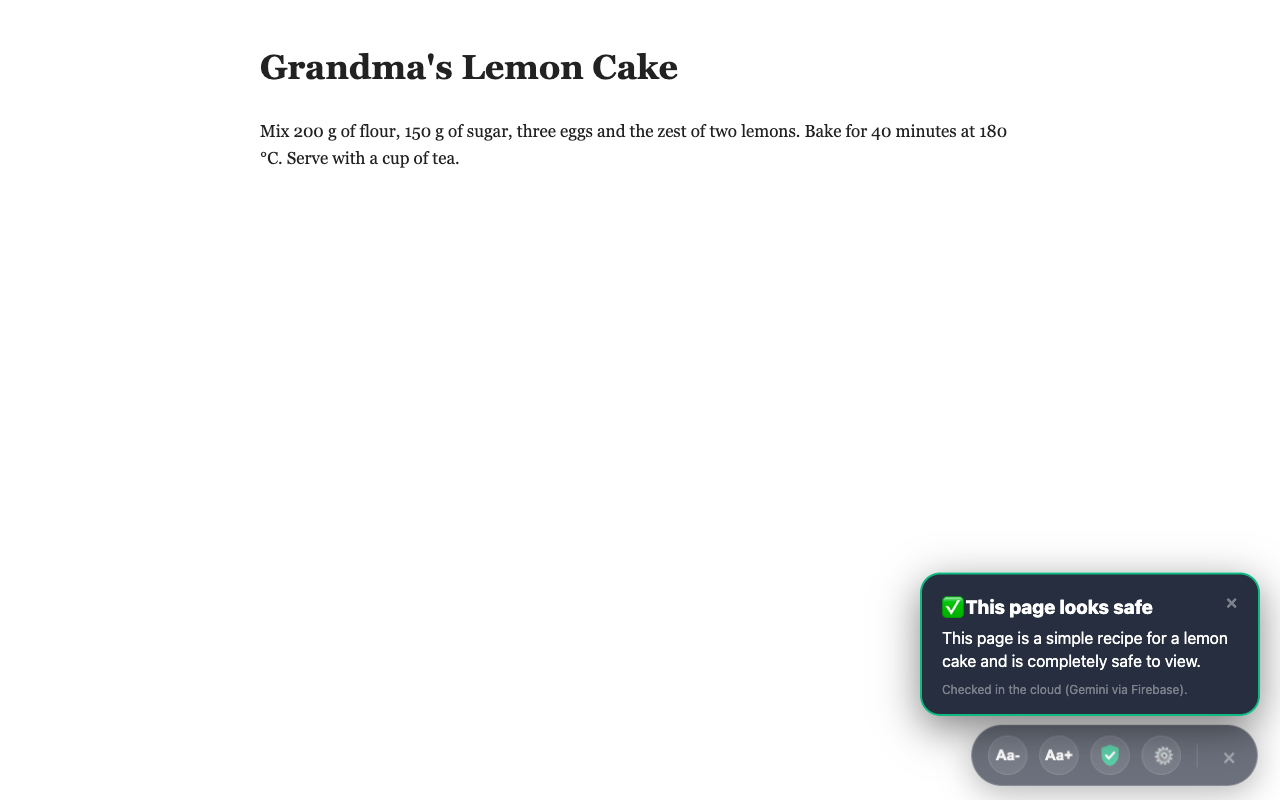
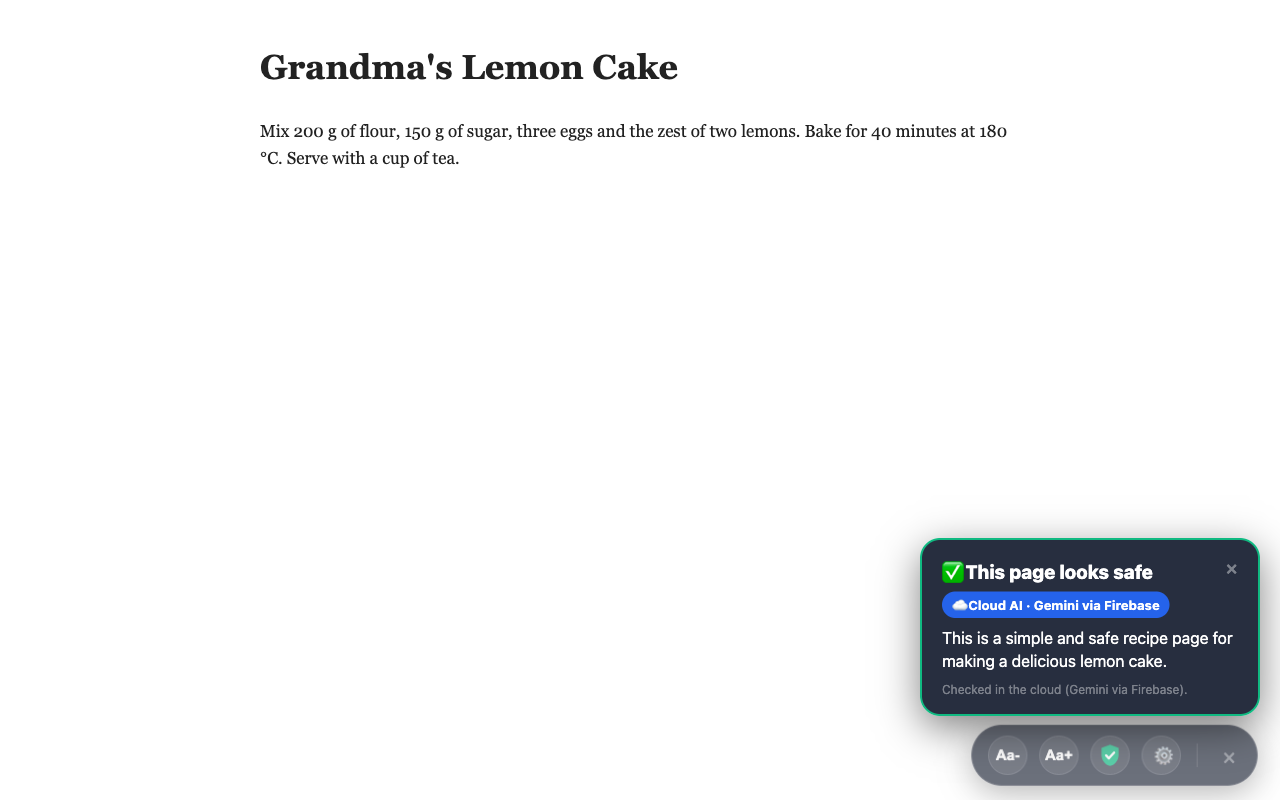
Overlay result card: Local AI / Cloud AI badge showing which engine answered

Changed region(s): [[0.6875, 0.6562, 1.0, 0.8438]]

diff --git a/senior_overlay.js b/senior_overlay.js
@@ -312,6 +312,12 @@
         cloud: 'Checked in the cloud (Gemini via Firebase).',
         keywords: 'Checked with your keyword list.'
     };
+    // Which AI answered, shown as a pill at the top of the card.
+    const ENGINE_BADGE = {
+        'on-device': { label: '🔒 Local AI · Gemini Nano', color: '#059669' },
+        cloud: { label: '☁ Cloud AI · Gemini via Firebase', color: '#2563eb' },
+        keywords: { label: '🔤 Keyword list', color: '#64748b' }
+    };
     const ACCENT = { allow: '#10b981', warn: '#f59e0b', block: '#ef4444', unknown: '#64748b' };
 
     function closeCheckCard() {
@@ -345,6 +351,14 @@
         head.style.cssText = 'font-size: 19px; font-weight: 800; margin: 0 22px 6px 0;';
         head.textContent = content.title;
         card.append(close, head);
+        const badge = ENGINE_BADGE[content.engine];
+        if (badge) {
+            const pill = document.createElement('div');
+            pill.style.cssText = `display: inline-block; margin: 0 0 8px; padding: 4px 10px; border-radius: 999px;
+                font-size: 13px; font-weight: 700; color: #fff; background: ${badge.color};`;
+            pill.textContent = badge.label;
+            card.appendChild(pill);
+        }
         if (content.text) {
             const body = document.createElement('div');
             body.textContent = content.text; // AI text is never inserted as HTML
@@ -385,7 +399,7 @@
             const v = (await chrome.runtime.sendMessage({ command: 'analyzePage', snapshot, trigger: 'manual' })) || {};
             const verdict = HEADLINE[v.verdict] ? v.verdict : 'unknown';
             const meta = [ENGINE[v.engine], v.escalated ? '(double-checked in the cloud)' : ''].filter(Boolean).join(' ');
-            showCheckCard(theme, { verdict, title: HEADLINE[verdict], text: v.reason || '', meta });
+            showCheckCard(theme, { verdict, engine: v.engine, title: HEADLINE[verdict], text: v.reason || '', meta });
         } catch (e) {
             showCheckCard(theme, { verdict: 'unknown', title: HEADLINE.unknown, text: 'Reload the page and try again.' });
         } finally {
